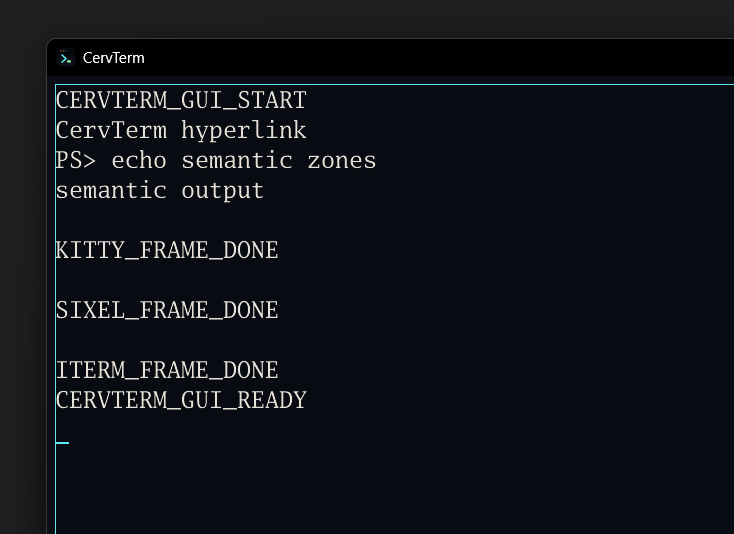
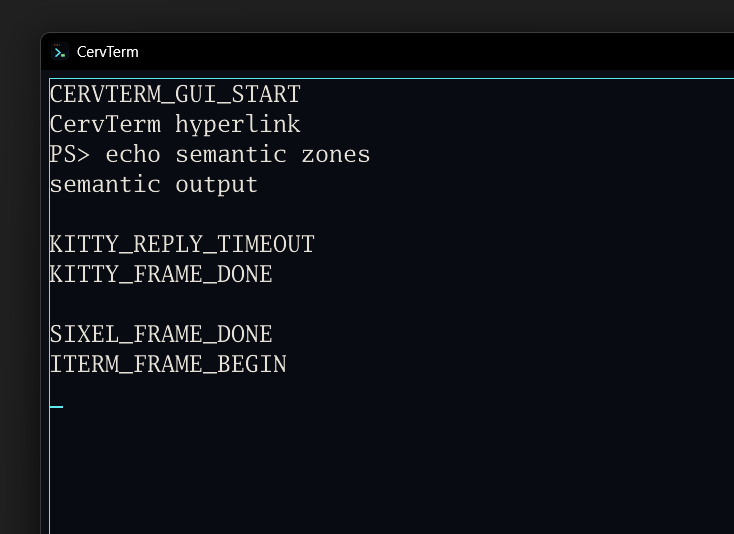
docs(validation): record protocol transport boundaries

Changed region(s): [[0.03, 0.0599, 1.0, 1.0]]

diff --git a/docs/validation/phase-15-platform-qualification.md b/docs/validation/phase-15-platform-qualification.md
@@ -23,9 +23,9 @@ The initial RC1 qualification exposed repeatable Windows heap termination `0xc00
 Two real GUI runs used a bounded helper emitting ordinary text, OSC 8, OSC 133 semantic zones, and Kitty/Sixel/iTerm envelopes:
 
 - all graphics and accessibility disabled: [screenshot](../assets/phase15-windows-disabled.png);
-- all three graphics protocols plus visible-only experimental accessibility enabled: [screenshot](../assets/phase15-windows-enabled.png).
+- all three graphics flags plus visible-only experimental accessibility enabled: [screenshot](../assets/phase15-windows-enabled.png).
 
-Both windows became visible, remained responsive during a five-second idle sample, retained text after all envelopes, captured a screenshot, processed `WM_CLOSE`, and exited zero without panic/fatal diagnostics. The enabled run exercised real OpenGL context/cache/placement activation; this is a bounded qualification fixture, not broad protocol conformance.
+Both windows became visible, remained responsive during a five-second idle sample, retained ordinary text, captured a screenshot, processed `WM_CLOSE`, and exited zero without panic/fatal diagnostics. The enabled run committed and visibly drew the accepted iTerm PNG as the orange 4x2-cell image, exercising the real OpenGL cache/placement path. Windows ConPTY filtered APC Kitty and DCS Sixel bytes before CervTerm's parser (confirmed by raw ConPTY capture), so those two protocols are not claimed as Windows visual PASS rows. This is a bounded qualification fixture, not broad protocol conformance.
 
 ### Process comparison
 
@@ -41,7 +41,7 @@ Three alternating Phase 0/candidate runs used the same 900x620 helper window. Me
 | Peak working set | 109,817,856 B | 111,230,976 B | +1.29% |
 | Idle CPU, one-core scale | 0.5207% | 0.5208% | effectively unchanged |
 
-All remain below the Phase 15 15% investigation threshold. A separate enabled graphics/accessibility run measured 313.54 ms startup, 115,851,264 B working set, 0.3125% idle CPU, and clean exit.
+All remain below the Phase 15 15% investigation threshold. A separate final enabled graphics/accessibility run measured 261.39 ms startup, 116,228,096 B working set, 0.625% idle CPU, visible iTerm output, and clean exit.
 
 ## Linux amd64
 
@@ -58,7 +58,7 @@ The host lacks a system emoji package; qualification supplied the same pinned pa
 
 ### Real GUI
 
-**Result: PASS with WSLg scope.** GLFW/OpenGL tests and build passed against user-extracted Ubuntu development packages. A WSLg/X11 real window then ran with Mesa software OpenGL, all image protocols enabled, emitted text/OSC/Sixel fixture traffic, produced a [cropped screenshot](../assets/phase15-linux-wslg.png), accepted an X11 window-close event, and exited zero.
+**Result: PASS with WSLg scope.** GLFW/OpenGL tests and build passed against user-extracted Ubuntu development packages. A WSLg/X11 real window then ran with Mesa software OpenGL and all image flags enabled. The Unix PTY preserved Kitty APC (the fixed `OK` reply was echoed by the fixture) and visibly rendered the accepted Sixel frame as the green rectangle. The run produced a [cropped screenshot](../assets/phase15-linux-wslg.png), accepted an X11 window-close event, and exited zero.
 
 Expected platform diagnostics reported unsupported KWin blur/titlebar integration and no Segoe UI Emoji. This qualifies WSLg/X11 software-GL integration only; it does not claim broad native Linux desktop/driver support.
 